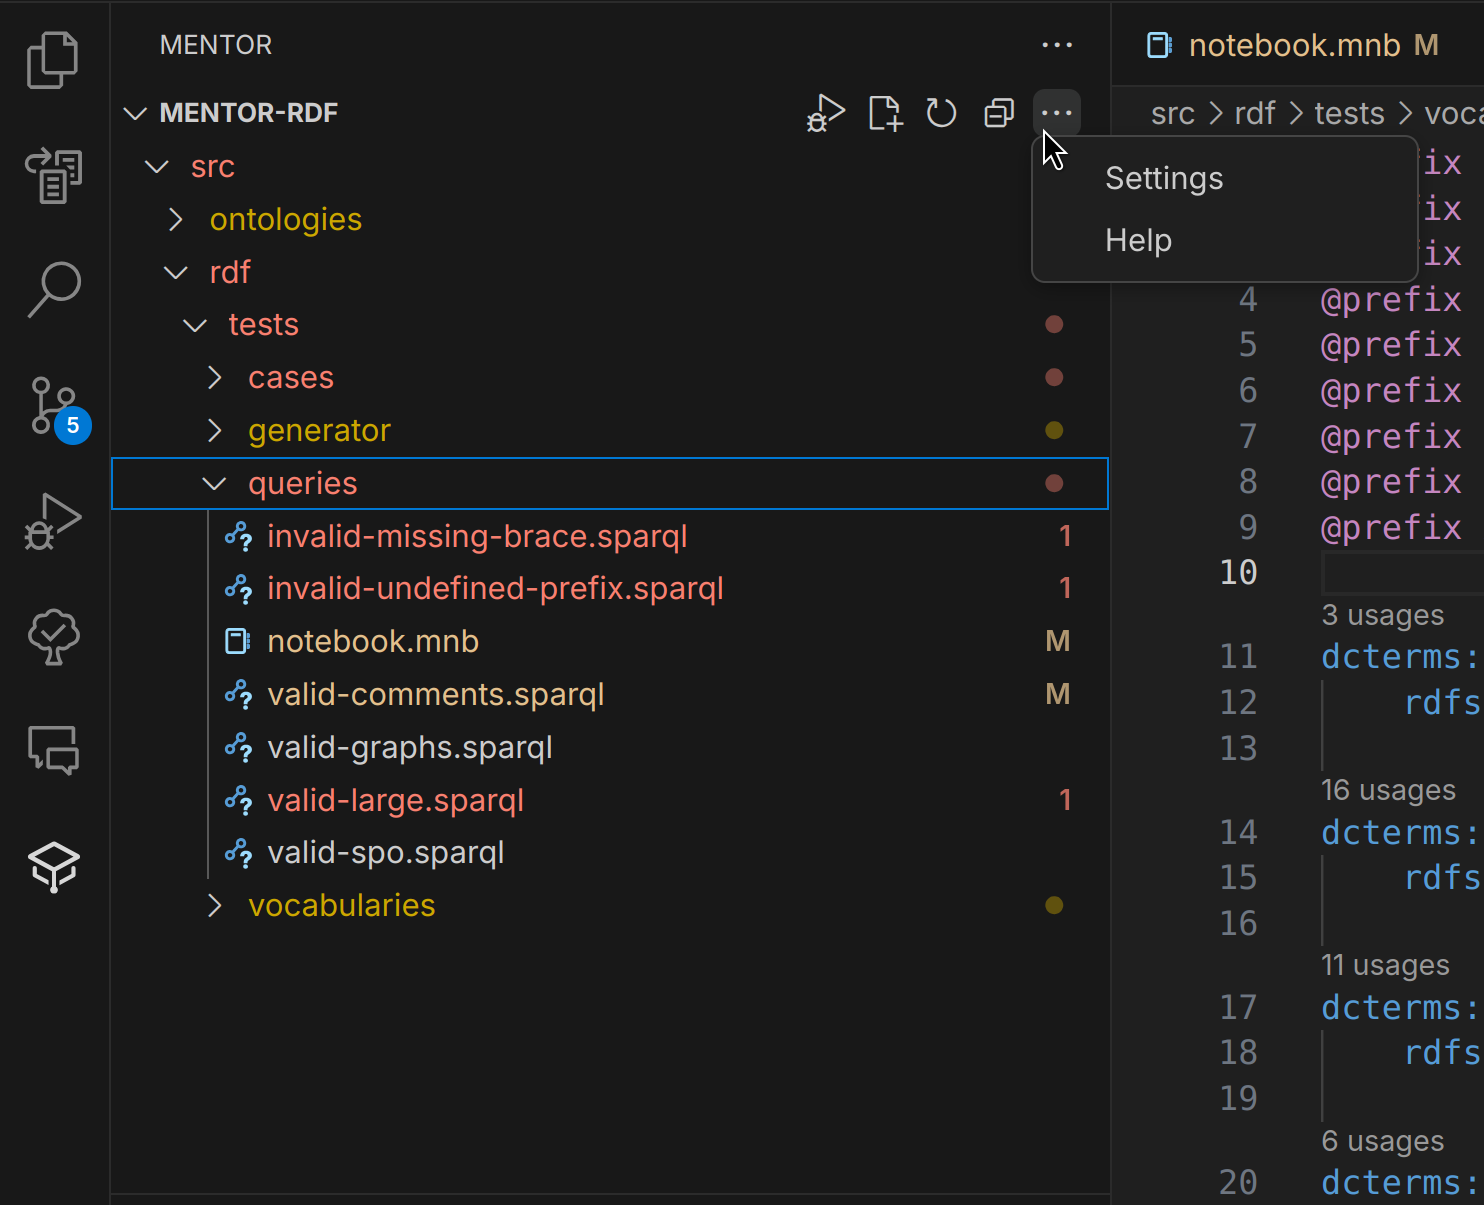
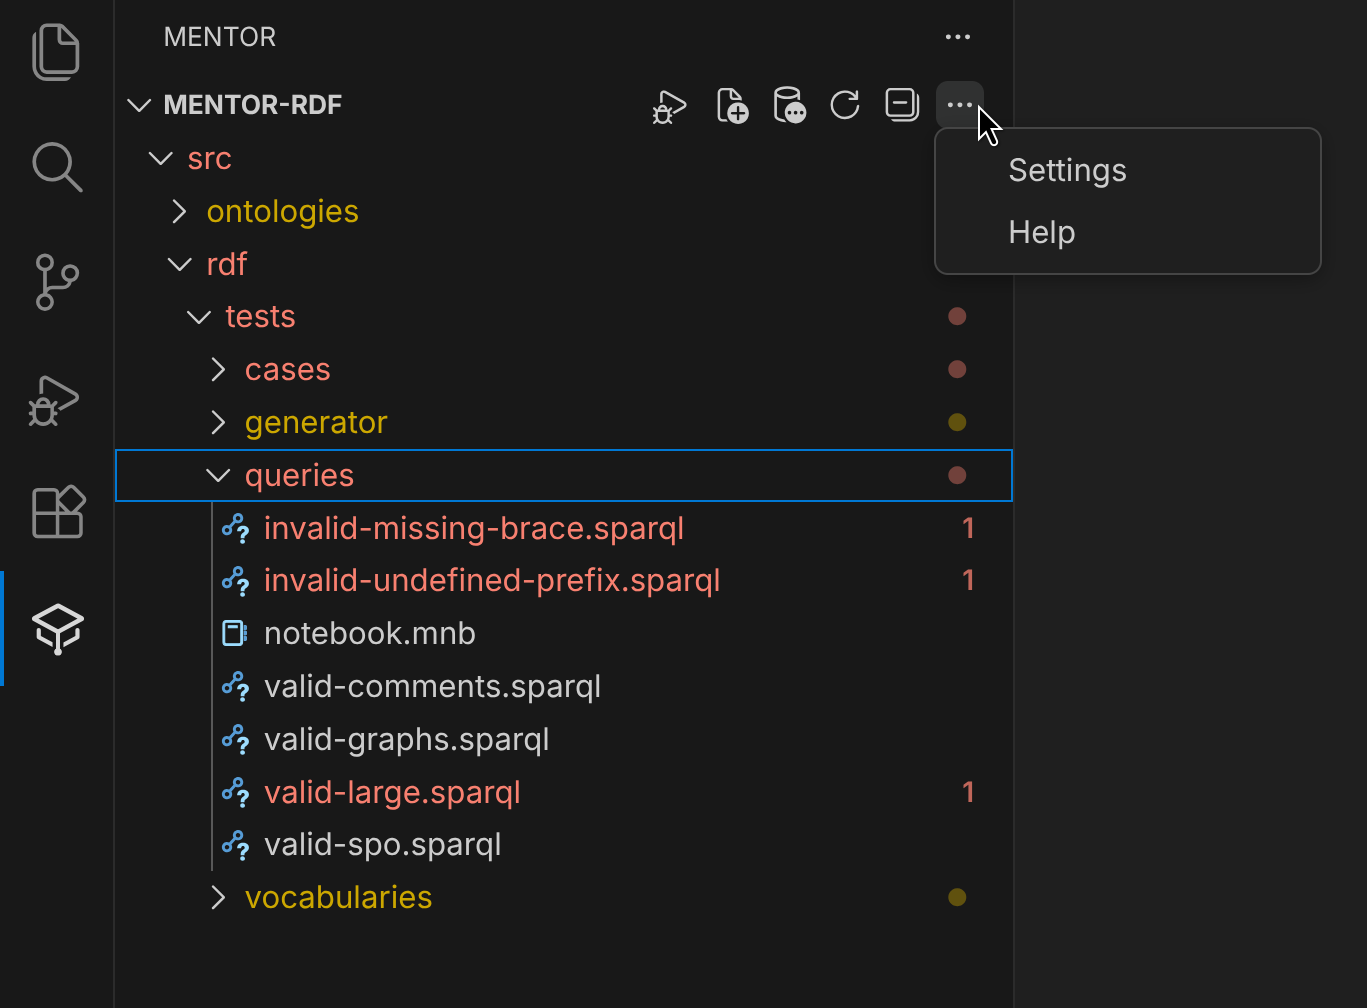
Updated to new Mentor version 0.3.10

diff --git a/src/assets/styles/mentor-icons.css b/src/assets/styles/mentor-icons.css
@@ -115,3 +115,11 @@
 .mentor-mentor-notebook::before {
     content: '\e012';
 }
+
+.mentor-datalog-file::before {
+    content: '\e013';
+}
+
+.mentor-sparql-connection::before {
+    content: '\e014';
+}
